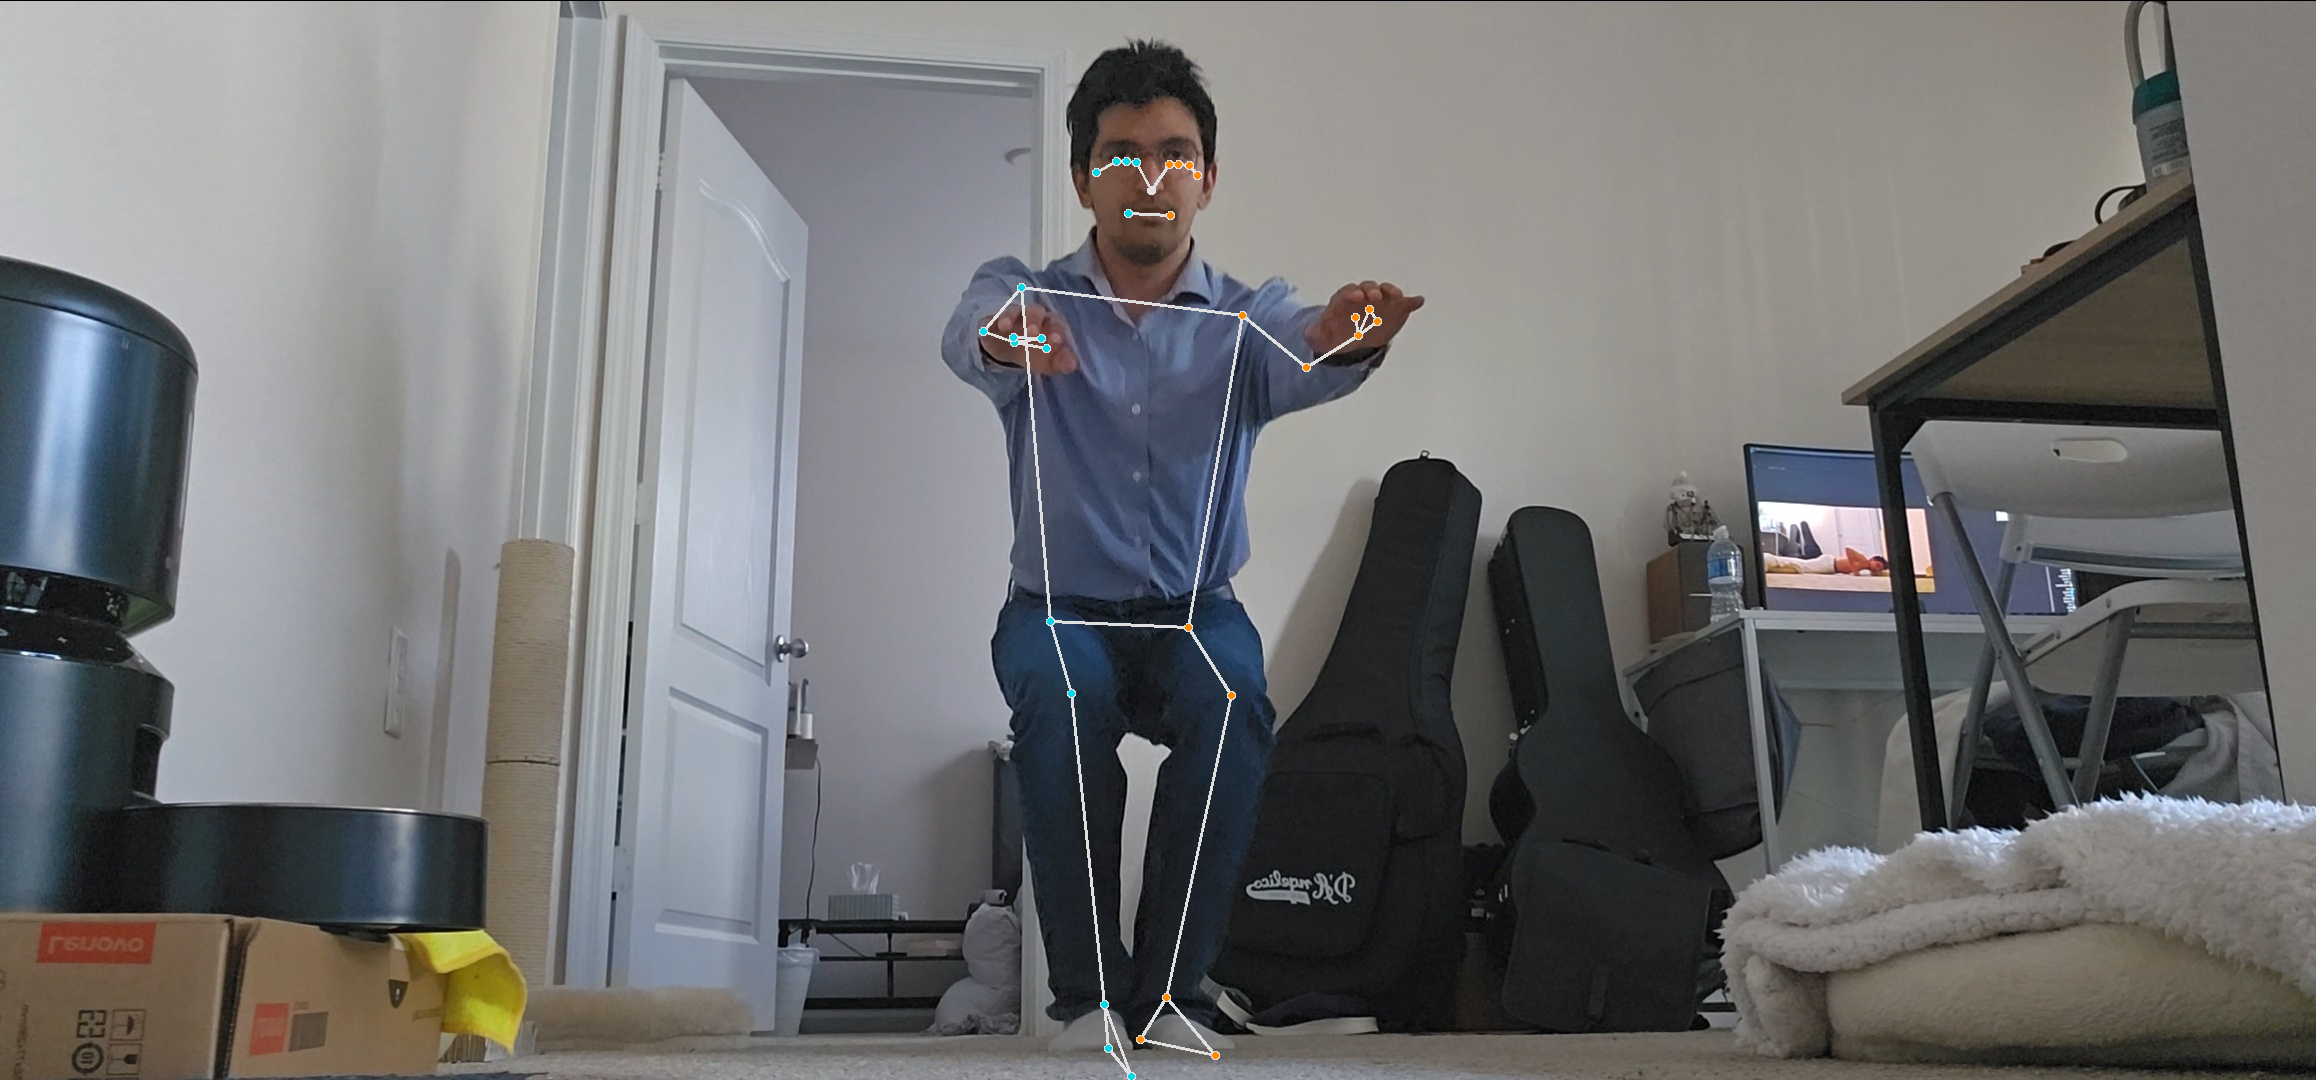
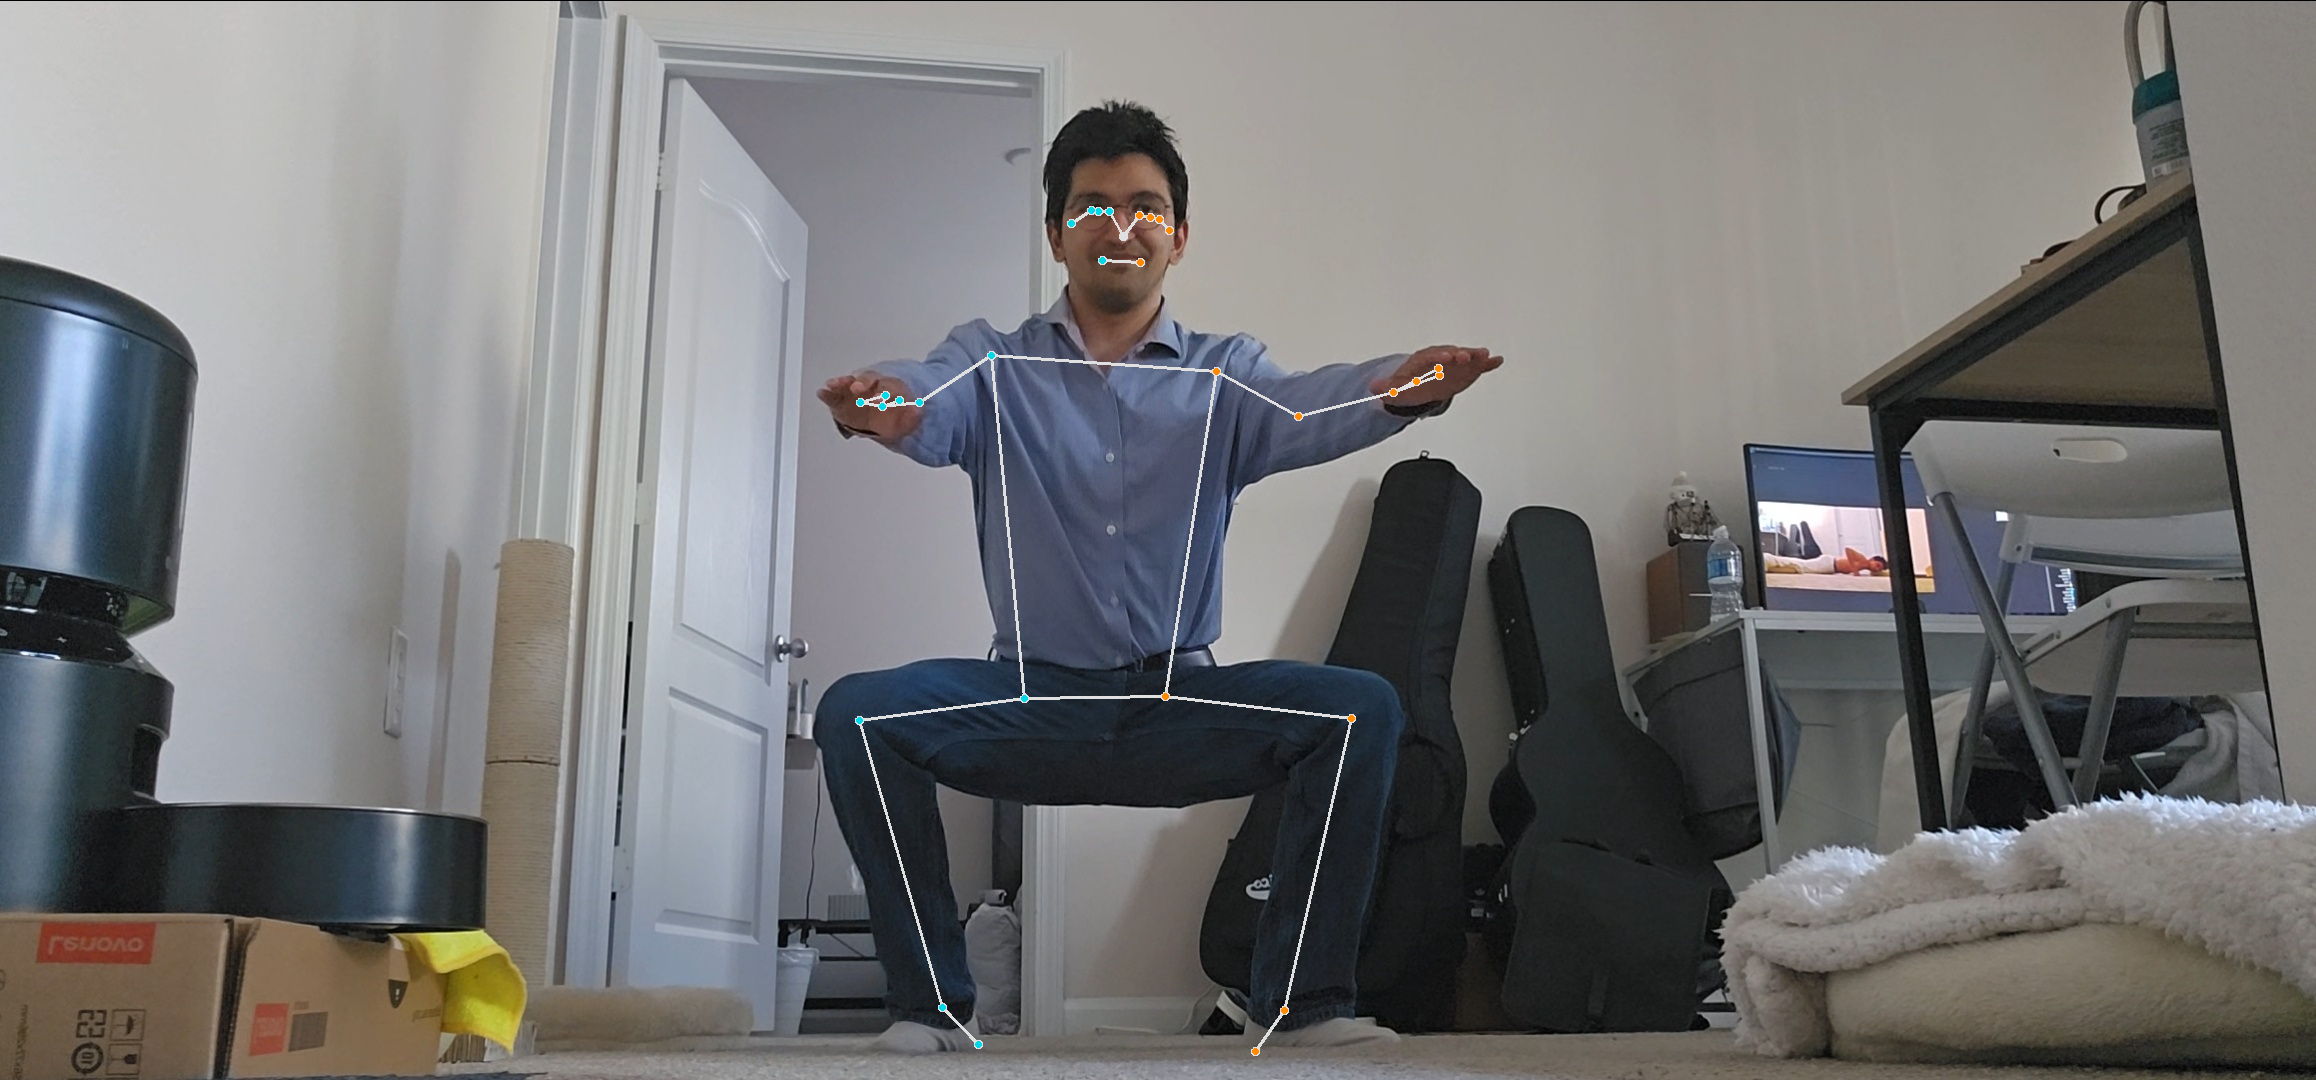
Testing Update + Tweaked pushup UP/DOWN classification logic + Implemented text overlay on annotated image for easier testing review + cleaned up console prints + Better testing workflow, results in test_imgs_out

Changed region(s): [[0.342, 0.0306, 0.6528, 1.0], [0.1554, 0.6417, 0.2176, 0.7028], [0.2176, 0.6111, 0.2487, 0.6417]]

diff --git a/backend-processing/spotter_server.py b/backend-processing/spotter_server.py
@@ -12,6 +12,7 @@ import time
 import datetime
 import random
 import math
+import os
 
 
 '''
@@ -95,52 +96,62 @@ def draw_landmarks_on_image(rgb_image, detection_result):
 
     return annotated_image, pose_body_maps
 
-def highlight_body_segments(pose, segments_to_highlight):
-    '''
-    Highlights specific body segments on an already annotated image.
+def highlight_body_segments(pose, segments_to_highlight, text_message=None):
     
-    Args:
-        pose: Dictionary mapping body part names to their coordinates
-        segments_to_highlight: List of tuples of body part names to highlight, e.g. 
-                              [('left_shoulder', 'left_elbow'), ('right_hip', 'right_knee')]
-    
-    Returns:
-        highlighted_image: The image with highlighted segments
-    '''
     filename = "pose_prediction.png"
-    
-    # Load the image
     image = cv2.imread(filename)
     highlighted_image = np.copy(image)
-    
-    # Get the image dimensions
     h, w = highlighted_image.shape[:2]
     
-    # Draw each segment to highlight
+    # draw each segment to highlight
     for start_part, end_part in segments_to_highlight:
-        # Check if both body parts exist in the pose dictionary
         if start_part in pose and end_part in pose:
-            # Get coordinates of start and end points
             start_point = pose[start_part]
             end_point = pose[end_part]
             
-            # Convert normalized coordinates to pixel coordinates
+            # change normalized coordinates to pixel coordinates
             start_pixel = (int(start_point[0] * w), int(start_point[1] * h))
             end_pixel = (int(end_point[0] * w), int(end_point[1] * h))
             
-            # Draw a thick red line
             cv2.line(highlighted_image, 
                      start_pixel, 
                      end_pixel, 
-                     color=(0, 0, 255),  # BGR format: Red
+                     color=(0, 0, 255),  # bgr format: red
                      thickness=5)
-    
-    # Save the highlighted image
-    # output_filename = "highlighted_" + filename
-    # cv2.imwrite(output_filename, highlighted_image)
+            
+    if text_message:
+        text_position = (20, 40) # top left
+        lines = text_message.split('\n')
+        
+        # background
+        line_height = 30  # height per line
+        max_width = 0
+        
+        # find the widest line to size our background
+        for line in lines:
+            width = cv2.getTextSize(line, cv2.FONT_HERSHEY_SIMPLEX, 0.7, 2)[0][0]
+            max_width = max(max_width, width)
+        
+        cv2.rectangle(highlighted_image, 
+                     (text_position[0] - 10, text_position[1] - 30), 
+                     (text_position[0] + max_width + 10, text_position[1] + (len(lines) - 1) * line_height + 10), 
+                     (255, 255, 255), 
+                     -1)  # Filled rectangle
+        
+        # text overlay
+        for i, line in enumerate(lines):
+            y_position = text_position[1] + i * line_height
+            cv2.putText(highlighted_image, 
+                       line, 
+                       (text_position[0], y_position), 
+                       cv2.FONT_HERSHEY_SIMPLEX, 
+                       0.7, 
+                       (0, 0, 0), #black
+                       2)  # thickness
+
     plt.imsave("highlighted.png", cv2.cvtColor(highlighted_image, cv2.COLOR_RGB2BGR))
     
-    # Return the numpy array of the highlighted image
+    # return np array of highlighted image
     return highlighted_image
 
 # STEP 2: Create an PoseLandmarker object.
@@ -214,7 +225,7 @@ def update_prediction(TESTING=False, filename="image.jpg"):
         print(f"Retrieved local image and predicted in {elapsed_time:.4f} seconds")
     else:
         print(f"Downloaded image and predicted in {elapsed_time:.4f} seconds")
-        
+
     return body_maps
 
 def classify_exercise(pose):
@@ -272,13 +283,18 @@ def classify_exercise(pose):
     # this function uses the approach above
     wrist_ankle_slope_is_horizontal = keypoint_pairs_are_horizontal(wrist_pair, ankle_pair, 45)
     
+    PUSHUP_THRESHOLD = 145
+    SQUAT_THRESHOLD = 135
+
+    print("joint angles", left_elbow_angle, right_elbow_angle, left_knee_angle, right_knee_angle)
+
     if wrist_ankle_slope_is_horizontal:
-        if left_elbow_angle > 160 and right_elbow_angle > 160:
+        if abs(left_elbow_angle) > PUSHUP_THRESHOLD and abs(right_elbow_angle) > PUSHUP_THRESHOLD:
             return "pushup_UP"
         else: 
             return "pushup_DOWN"
     else:
-        if left_elbow_angle > 160 and right_elbow_angle > 160:
+        if abs(left_knee_angle) > SQUAT_THRESHOLD and abs(right_knee_angle) > SQUAT_THRESHOLD:
             return "neutral" # which is the same as squat_UP
         else:
             return "squat_DOWN"
@@ -308,10 +324,10 @@ def upload_json_response(exercise_feedback, pose_classification):
     )
 
     
-    print(f"Status Code: {response.status_code}")
-    print(f"Response: {response.text}")
+    # print(f"Status Code: {response.status_code}")
+    # print(f"Response: {response.text}")
     
-def upload_test_image():
+def upload_test_image(verbose=False):
     workout_imgs = [
         "test_imgs\pushup_DOWN_dip.jpg",
         "test_imgs\pushup_DOWN_flat.jpg",
@@ -348,26 +364,28 @@ def upload_test_image():
         files = {'file': ('image.jpg', image_file)} 
         response = requests.post('http://3.15.203.82/upload', files=files)   
 
-        if response.status_code == 200:
-            print(f"Image {image_path} uploaded successfully as 'image.jpg'!")
+        if verbose:
+            if response.status_code == 200:
+                print(f"Image {image_path} uploaded successfully as 'image.jpg'!")
 
-        else:
-            print(f"Failed to upload {image_path}. Status code: {response.status_code}")
+            else:
+                print(f"Failed to upload {image_path}. Status code: {response.status_code}")
     
     return image_path
     
-def upload_annotated_image():
+def upload_annotated_image(verbose=False):
     image_path = "pose_prediction.png"
 
     with open(image_path, 'rb') as image_file:
         files = {'file': ('pose_prediction.png', image_file)} 
         response = requests.post('http://3.15.203.82/upload', files=files)   
 
-        if response.status_code == 200:
-            print(f"Image {image_path} uploaded successfully as 'pose_prediction.png'!")
+        if verbose:
+            if response.status_code == 200:
+                print(f"Image {image_path} uploaded successfully as 'pose_prediction.png'!")
 
-        else:
-            print(f"Failed to upload {image_path}. Status code: {response.status_code}")
+            else:
+                print(f"Failed to upload {image_path}. Status code: {response.status_code}")
 
 """
 Takes three keypoints (not necessarily connected), and returns the angle between them (taking keypoint_joint as the "hinge" of the angle).
@@ -562,7 +580,7 @@ def get_feedback(pose_classification, pose):
         feedback.append("let's get to it!")
 
     print("Feedback: ", feedback)
-    print("HIGHLIGHTED LIMBS: ", problem_limbs)
+    # print("HIGHLIGHTED LIMBS: ", problem_limbs)
     return feedback, problem_limbs
         
 
@@ -570,17 +588,17 @@ def get_feedback(pose_classification, pose):
 if __name__ == '__main__':
     print("Beginning server")
     # download_screenshot()
-
     # update_prediction()
-
-    # interval_seconds = 60  # Change this to your desired interval
-    # schedule.every(interval_seconds).seconds.do(update_prediction)
 
     TESTING = True
     TEST_IMAGE = ""
+
+    test_path = 'test_imgs_out'
+    test_file_count = sum(1 for item in os.scandir(test_path) if item.is_file())
     body_maps = {}
 
-    while True:
+    # while True:
+    for sample in range(20):
         
         if TESTING:
             # upload dummy data
@@ -606,15 +624,19 @@ if __name__ == '__main__':
         upload_json_response(feedback[0], pose_classification)
         upload_annotated_image()
 
-        highlighted_image = highlight_body_segments(pose, problem_limbs)
+        feedback_concat = pose_classification+"\n"+"\n".join(feedback)
+        highlighted_image = highlight_body_segments(pose, problem_limbs, feedback_concat)
 
-        # Display or save the highlighted image
-        # cv2.imshow('Highlighted Pose', cv2.cvtColor(highlighted_image, cv2.COLOR_RGB2BGR))
-        # cv2.waitKey(0)
+        
+        image = cv2.imread("highlighted.png")
+        test_copy = np.copy(image)
+        plt.imsave("test_imgs_out/test_"+str(test_file_count+sample)+".png", cv2.cvtColor(test_copy, cv2.COLOR_RGB2BGR))
 
-        time.sleep(2)
+        time.sleep(10)
         # if pose_classification == 'squat':
         #     break
+
+        print("="*60, "\n")
 
 
 
